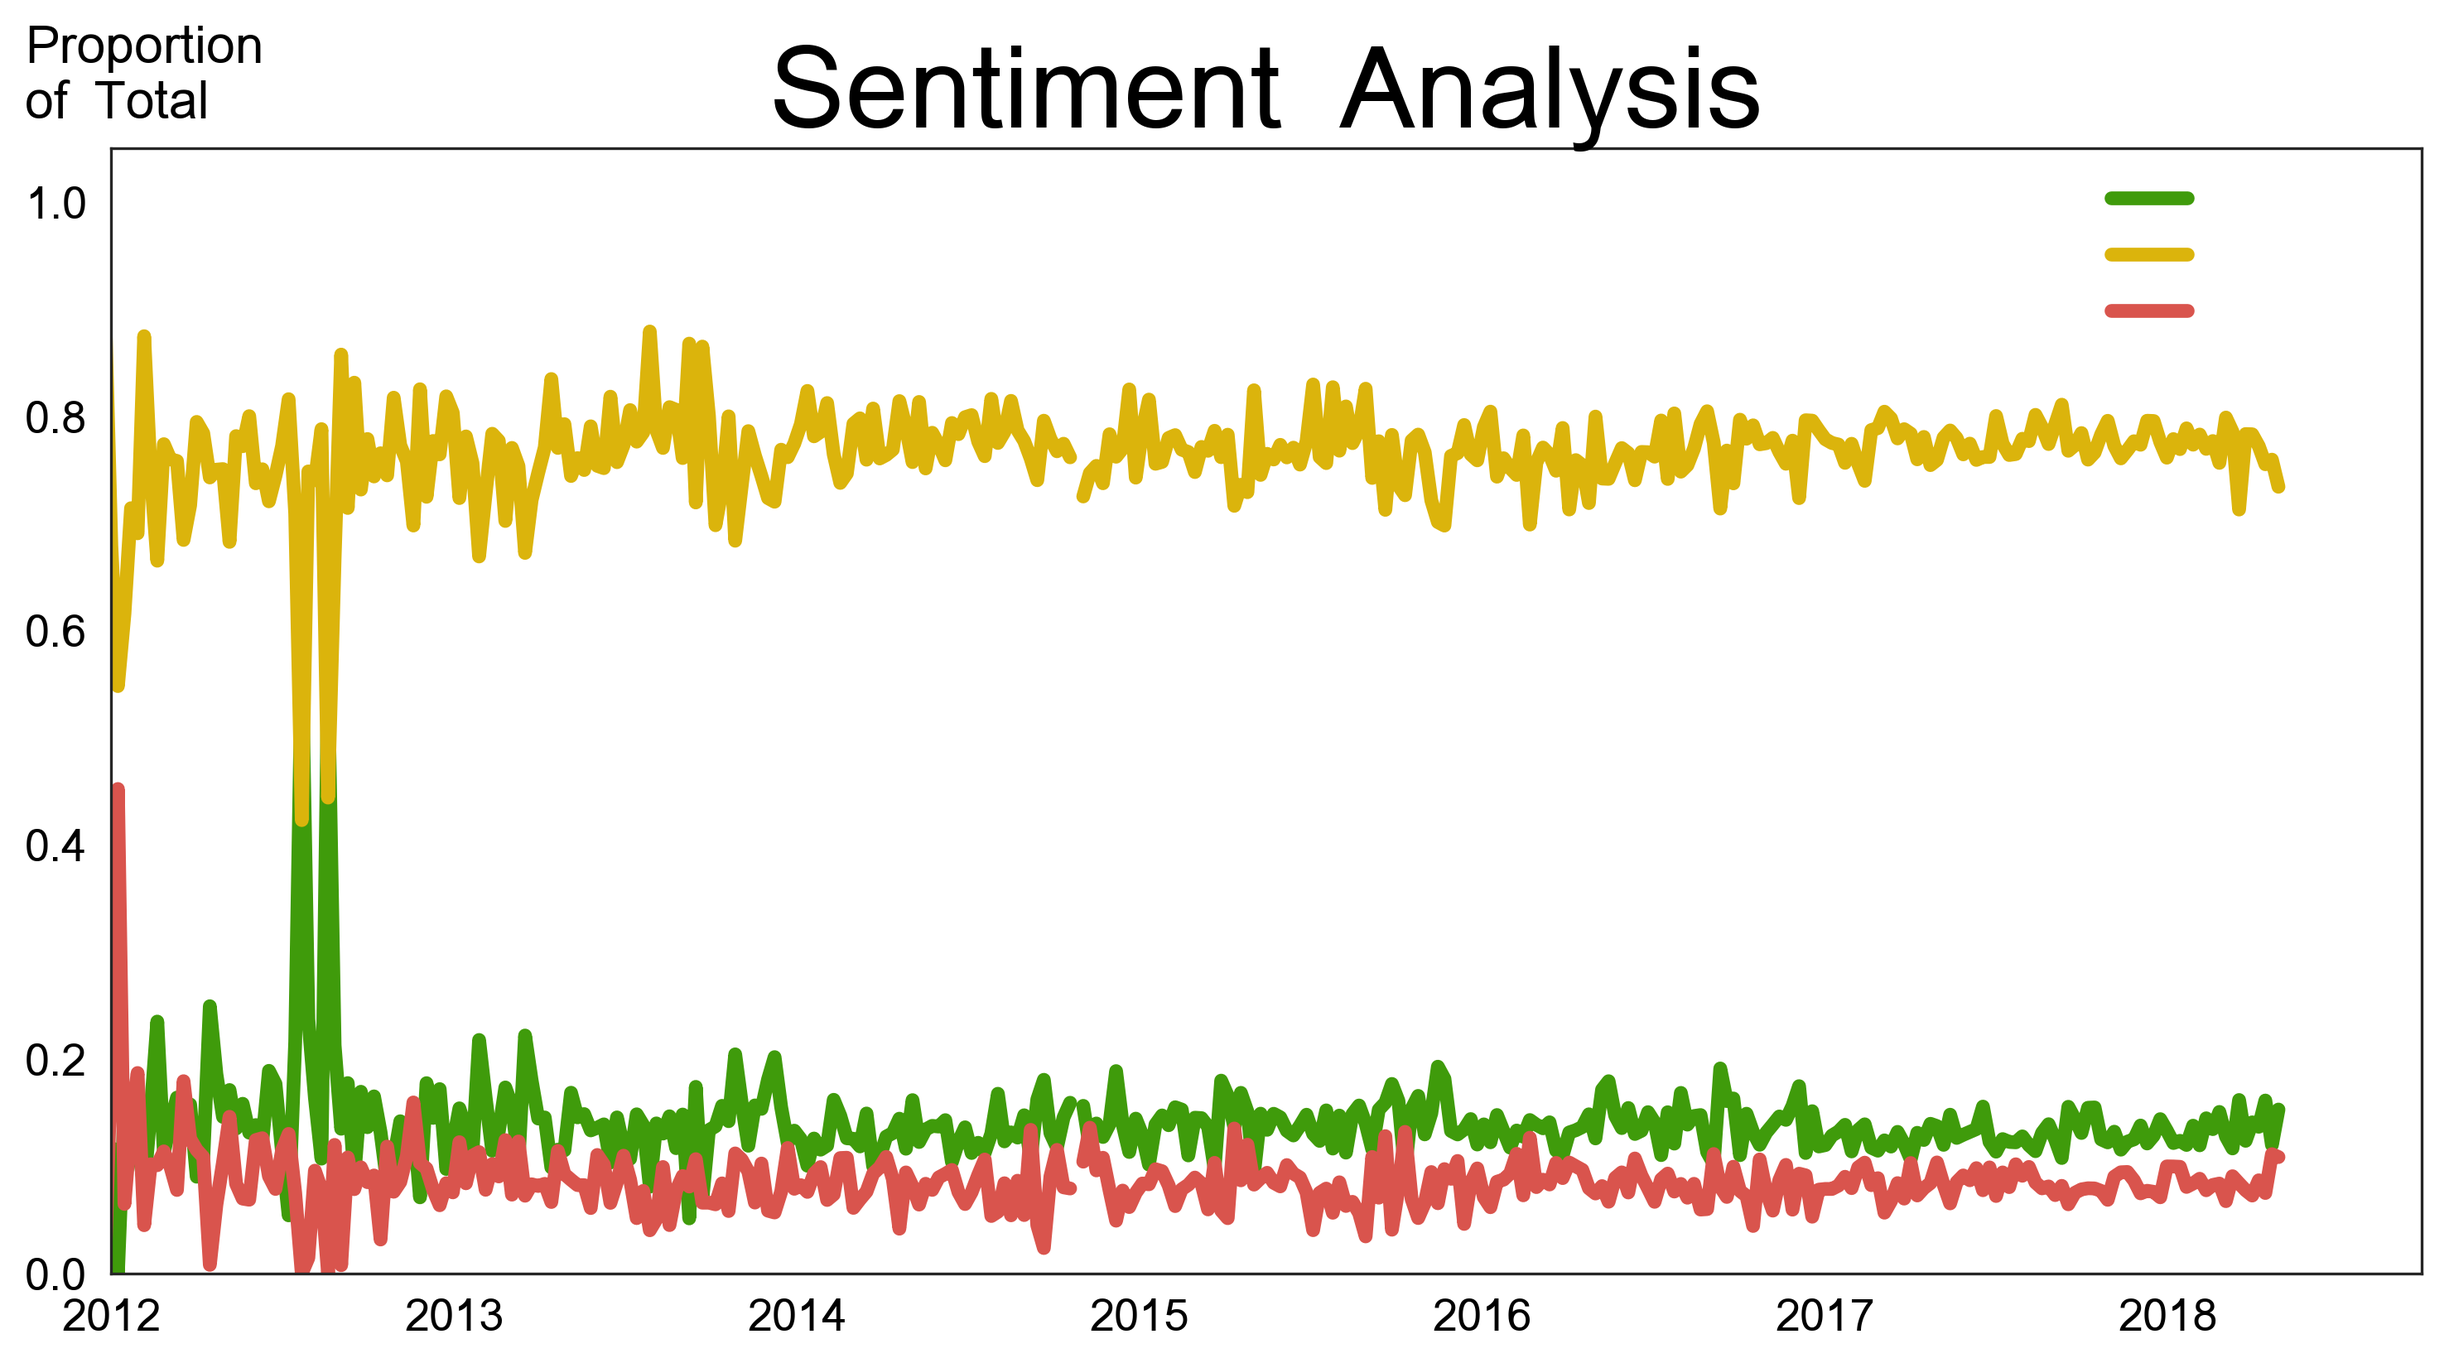
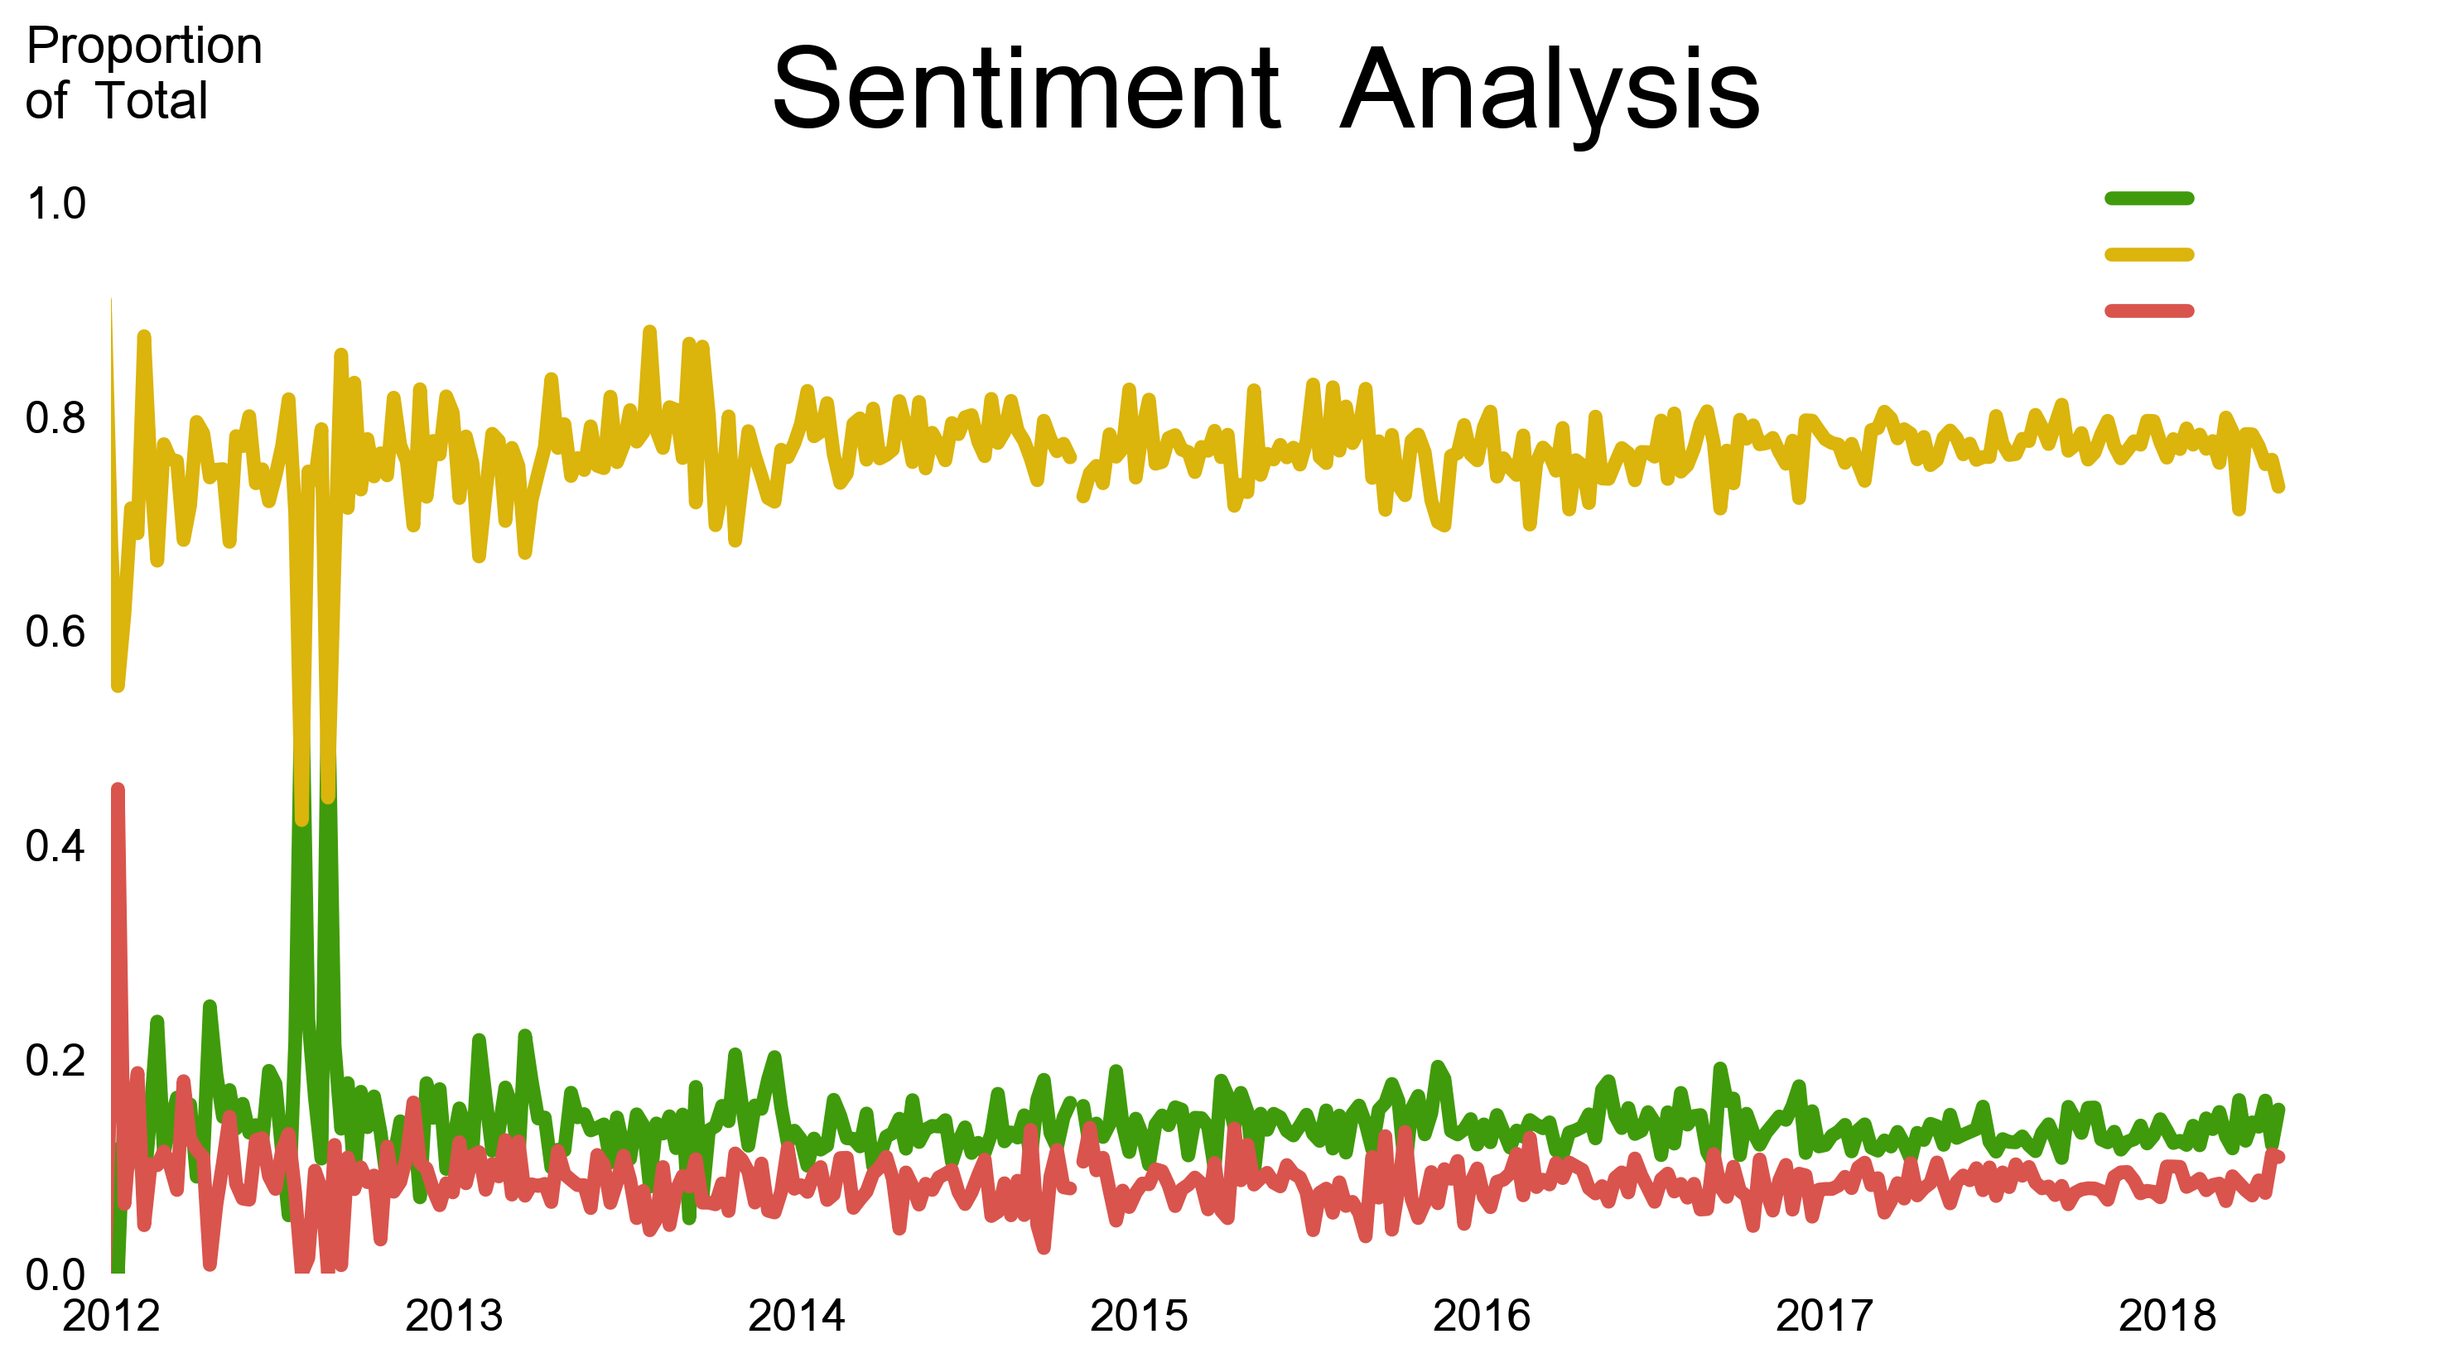
new plots and updated blog post

Changed region(s): [[0.9645, 0.093, 0.9956, 0.1239]]

diff --git a/posts/005-lebron-james-nlp.md b/posts/005-lebron-james-nlp.md
@@ -1,6 +1,7 @@
-<<< IMAGE OF LEBRON>>>
+<img src="/static/blog/images/005-lebron-images/lda_topics_list.png" class="img-fluid" alt="LeBron James." title="" style="width:750px;max-width:88%">
+<p style="text-align: center;font-size:80%">
 
-I love the NBA. Evening time and I'm at home? Flip on a basketball game. Out with friends on a weekend? Let's watch a game. Visiting a city that ACTUALLY HAS an NBA team (rip Sonics, I'll never forget you)? See if I can score tickets. It's a hobby. And why shouldn't it be? I don't think I'm over reaching when I say the NBA has never been more marketable and has more recognizable players than ever before. Heads and shoulders above all the other current players when it comes to stardom, however, is LeBron James. I admire the man for what he demonstrates on the court night after night, but also for the way he, generally (but not without exceptions),  tastefully and impactfully wields his voice to weigh in on issues outside of basketball.
+I love the NBA. Evening time and I'm at home? Flip on a basketball game. Out with friends on a weekend? Let's watch a game. Visiting a city that ACTUALLY HAS an NBA team (rip Sonics, I'll never forget you)? See if I can score tickets. It's a hobby. And why shouldn't it be? I don't think I'm over reaching when I say the NBA has never been more marketable and has more recognizable players than ever before. Heads and shoulders above all the other current players when it comes to stardom, however, is LeBron James. I admire the man for what he demonstrates on the court night after night, but also for the way he, generally (but not without exceptions), tastefully and impactfully wields his voice to weigh in on issues outside of basketball.
 
 LeBron lives under a microscope. His tweets, post-game interviews, family outings, nightly basketball performances, choice of sneakers, and other rudimentary activities are all discussed by pundits on television, on internet forums, and by people everywhere on a 24/7 basis. Knowing this, I decided I wanted to use machine learning techniques to see what kind of insights I could pry from **what people are discussing when they discuss LeBron**.  I got my hands on LeBron-centered reddit comments and put Natural Language Processing (NLP) techniques to the task at hand.
 
@@ -8,50 +9,58 @@ Continue reading for my exploration of the types of words, language, and topics 
 
 ## Data
 
-While I heavily considered Twitter due to the quantity of and ease of accessing its data, I chose to get posts from [reddit.com/r/nba](https://www.reddit.com/r/nba) as my data source. I hav ea good intuition for the data as I often read and occasionally post on the platform. The r/nba subreddit is quite popular with over 1.42 million subscribers at the time of writing - making it the most subscribed to subreddit. 
+While I heavily considered Twitter due to the quantity of and ease of accessing its data, I chose to pull comments from [reddit.com/r/nba](https://www.reddit.com/r/nba) as my data source. I have a good intuition for the data as I often read and occasionally post on the platform. The r/nba subreddit is quite popular with over 1.42 million subscribers at the time of writing - making it the most subscribed to subreddit. 
 
-People discuss all things NBA related on the subreddit, and unsurprisingly that means LeBron is discussed often. Using some awesome tools which may be found in my [github repo](https://github.com/spencertollefson/lebron_james_nlp) for this project, I pulled over 45,000 reddit comments to analyze. The comments selected were the most highly upvoted (a reddit user-based scoring system) for submissions for posts with "LeBron", a variation of his name, or a nickname in the title. I intended for this heuristic of selecting comments to be a proxy for the general pulse of the entire r/nba community.
+People discuss all things NBA related on the subreddit, and unsurprisingly that means LeBron is discussed often. Using some awesome tools which I reference in the [github repo](https://github.com/spencertollefson/lebron_james_nlp) for this project, I pulled over 45,000 reddit comments to analyze. The comments selected were the most highly upvoted (a reddit user-based scoring system) for submissions for posts with "LeBron", a variation of his name, or a nickname in the title. I intended for this heuristic of selecting comments to be a proxy for the general pulse of the entire r/nba community.
 
 ## Topic Modeling
 
 After obtaining the data, the next step was to transform it into a suitable format for NLP techniques. This is referred to as *preprocessing*. The text is all converted to lowercase, most punctuation removed, limited to English language words, removing non-important words dubbed *stop words*, then *lemmatized* and *stemmed*. Lemmatization and stemming essentially boil a word down into it's root form. *Running*, *ran*, and *runs* all are destilled into *run* for consistency.
 
-Next, the data is converted into a document-term matrix of numbers in a *bag of words* friendly-format. Numbers means we can model it! I applied the popular generative statistical model **Latent Dirichlict Allocation (LDA)** to the matrix to squeeze out the best results. LDA, in a simplified sense, discovers topics within text. I liked the explanation of LDA [by Edwin Chen in his post here](http://blog.echen.me/2011/08/22/introduction-to-latent-dirichlet-allocation/).  After supplying my LDA model with all of the reddit comments and the number of topics I am seeking, I eventually got some meaningful (and not meaningful... aka garbage) topics:
+### Latent Dirichlict Allocation (LDA)
+
+Next, the data is converted into a document-term matrix of numbers in a *bag of words* friendly-format. Numbers means we can model it! I applied the popular generative statistical model **LDA** to the matrix to squeeze out the best results. LDA, in a simplified sense, discovers topics within text. I liked the explanation of LDA [by Edwin Chen in his post here](http://blog.echen.me/2011/08/22/introduction-to-latent-dirichlet-allocation/).  After supplying my LDA model with all of the reddit comments and the number of topics I am seeking, I eventually got some meaningful (and not meaningful... aka garbage) topics:
 
 <img src="/static/blog/images/005-lebron-images/lda_topics_list.png" class="img-fluid" alt="List of a few example LDA topics and documents" title="GOAT = Greatest of All Time" style="width:750px;max-width:88%">
-<p style="text-align: center;font-size:80%"><b>A few sample topic keywords paired with a examples of reddit comments that matched. These match pretty well!</b></p>
+<p style="text-align: center;font-size:80%"><b>4 topics with sample keywords and sample reddit comments. These match pretty well!</b></p>
 
 As you can see there are some of the key topic words and a few example comments that correspond. Also, to be fair, there were 12 other topics. Half of them were meaningful, but 6 of them did not make sense at all. This leaves room for future improvement.
 
 Since I have data from about a 7 year period, I wanted to see how the proportion of topics discussed changed over time. Plotted below is a comparative proportion of the volume of comments on the 4 topics - grouped annually - over time:
 
-<img src="/static/blog/images/005-lebron-images/black_yearly_cluster_proportion.png" class="img-fluid" alt="Comparison of the proportion of different topics of posts over time" title="" style="width:750px;max-width:88%">
+<img src="/static/blog/images/005-lebron-images/dark_annual_lda_proportion.png" class="img-fluid" alt="Comparison of the proportion of different topics of posts over time" title="" style="width:750px;max-width:88%">
 <p style="text-align: center;font-size:80%"><b>Annual proportional comparison of the frequency of these 4 topics having comments.</b></p>
 
-Nothing terribly exciting to see there. Truthfully I was hoping to find an increase or decrease in some topics over time, but nothing to see here.
+Nothing terribly exciting to see there. Truthfully I was hoping to find an increase or decrease in some topics over time, but alas - you don't always get what you want.
 
+### Non-negative Matrix Factorization (NMF)
 
-Continuing with the topical modeling approach, I applied non-negative matrix factorization (NMF), a linear algebra based approach, to my vector of words as well to gather topics. The results weren't bad either, but nothing more interpretable than the LDA.
+Continuing with the topical modeling approach, I applied **NMF**, a linear algebra based approach, to my vector of words as well to gather topics. The results weren't bad either, but nothing more interpretable than the LDA.
 
-To keep going with this unsupervised learning tear, I went back to my LDA output and applied a K-Means clustering to the probability distribution. This categorized each of my reddit comments into one of 17 categories. Upon looking at various comments from each categories - I again was able to clearly find themes for some categories, but garbage for the others. Interestingly, *jokes/puns/quips* type of comments made up a large majority of all comments. These things scored highly among other redditors.
+### K-Means Clustering
 
-<<< PLOT OF K MEANS SIMILARITIES HERE>>>
+To keep going with this unsupervised learning tear, I went back to my LDA output and applied a K-Means clustering to the probability distribution. This categorized each of my reddit comments into one of 17 categories. Upon looking at various comments from each categories - I again was able to clearly find themes for some categories, but garbage for the others. Interestingly, *jokes/puns/quips* type of comments made up a sizable chunk of all comments.
+
+<img src="/static/blog/images/005-lebron-images/dark_annual_kmeans_proportion.png" class="img-fluid" alt="K-Means cluster comparison time series." title="Redditors love to joke." style="width:750px;max-width:88%">
+<p style="text-align: center;font-size:80%"><b>KMeans clusters and their frequency of comments on an annual basis.</b></p>
+
+## Sentiment Analysis
 
 Finally, I wanted to take a different approach than topic modeling and was curious to gauge the general sentiment of commenters over time. I used a pre-trained sentiment analyzer model, vader, to gauge the **positive, neutral, and negative** content within each comment. The chart below shows the average sentiment for the comments grouped by week.
 
-<<<<<WEEKLY SENTIMENT CHART>>>>>
-
+<img src="/static/blog/images/005-lebron-images/dark_weekly_sentiment.png" class="img-fluid" alt="Sentiment polarity analysis of the comments on a weekly basis" title="Notice the two positive peaks in 2012: that's when LeBron won his first championship." style="width:750px;max-width:88%">
+<p style="text-align: center;font-size:80%"><b>Sentiment Polarity Analysis Time Series</b></p>
 
  At any given week, the 3 lines will sum to a value of 1. As you can see, most weeks the comments tend to be about 80% neutral, meaning they don't have much positive nor negative expression in them. They also tend to be generally a little more positive than negative.
 
  A real interesting insight can be found at the two weeks in summer of 2012 where **positivity** spikes. This corresponds to when Lebron won his first NBA finals championship. It seems r/nba redditors were full of saying good things then!
 
- ## Conclusion
+## Conclusion
 
- It was fun to get my hands on some of the reddit data I frequently read myself. While I initially dove into this project thinking that NLP techniques would be simple to apply, I found that was not the case! It took some wrangling, munging, and clever techniques to eventually get the text data into a format that played nicely with NLP. Even then, tweaking with different *stop words*, stemming techniques, and the number of LDA topics was a difficult process that often resulted in partially but not fully satisfying results.
+ It was fun to get my hands on some of the reddit data I frequently read myself. While I initially dove into this project thinking that NLP techniques would be simple to apply, I found that was not the case! It took some wrangling, munging, cursing, exasperated hand waving, and clever techniques to eventually get the text data into a format that played nicely with NLP. Even then, tweaking with different *stop words*, stemming techniques, and the number of LDA topics was a difficult process that often resulted in partially but not fully satisfying results.
 
- In the future I would like to improve upon some of the aforementioned technicalities in implementing NLP techniques with topic modeling. Additionally, limiting my data to longer comments would likely reduce the number of jokes and increase the ratio of insightful comments. My heuristic of choosing posts with "LeBron" in the title likely isn't entirely representative of how the r/nba community feels about LeBron, and it would behoove the generalization value of my models to look at all r/nba posts - not LeBron only ones - and then focus on comments related to LeBron.
+ In the future I would like to improve upon some of the aforementioned technicalities in implementing NLP techniques with topic modeling. Additionally, limiting my data to longer comments would likely reduce the number of jokes and increase the ratio of insightful comments. My heuristic of choosing posts with "LeBron" in the title isn't entirely representative of how the r/nba community feels about LeBron, and it would behoove the generalization value of my models to look at all r/nba posts - not LeBron only ones - and then focus on comments referencing LeBron.
 
- [Github code for this project and all acknowledgements can be found here].
+ [Github code for this project and all acknowledgements can be found here](https://www.github.com/spencertollefson/lebron-james-nlp).
 
- Remember, we're lucky to live in the day and age we can watch LeBron play basketball. Don't miss out! #WeAreAllWitnesses
+ Remember, we're lucky to live in an age where we can watch LeBron play basketball. Don't miss out! #WeAreAllWitnesses
